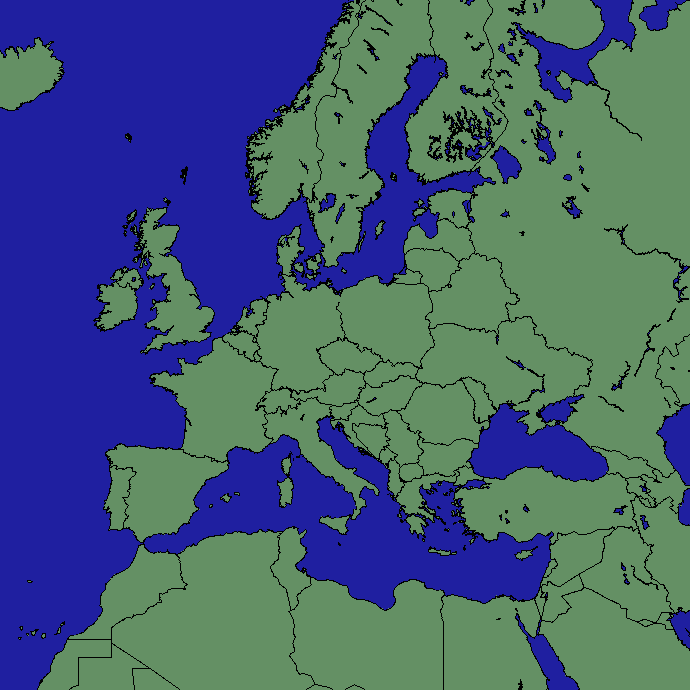
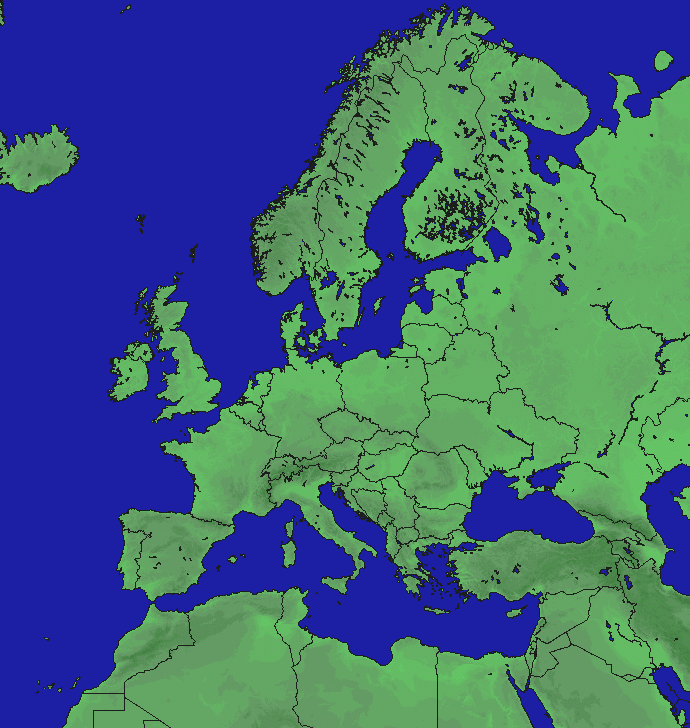
new map of europe

diff --git a/includes/templates.inc.php b/includes/templates.inc.php
@@ -36,7 +36,7 @@ $_BO['tpl_density_colors'][] = array(255, 190, 255, 15);
 
 //Europe
 $_BO['tpl_density']['europe']['name'] 	= 'Europe';
-$_BO['tpl_density']['europe']['coord'] 	= array(70, 52, 20, -22); //North, East, South, West (Degrees)
+$_BO['tpl_density']['europe']['coord'] 	= array(72, 52, 20, -22); //North, East, South, West (Degrees)
 $_BO['tpl_density']['europe']['length']	= 10; // minimum width (W<->E) AND height (N<->S) of the box (kilometers)
 $_BO['tpl_density']['europe']['bps'] 	= 2; // bytes per area 
 
@@ -100,11 +100,12 @@ $_BO['tpl_gmap']['1-10d']['only_loggedin'] = true;
 /**************************************/
 
 //Europe
+//MapTool URL: http://www.blitzortung.org/Webpages/index.php?lang=de&page=3&subpage_3=4&update=1&map_generator_north=71.3&map_generator_west=-22&map_generator_east=52&map_generator_south=24.3&map_generator_min_area=50&map_generator_shorelines=0.1p%2F30%2F30%2F30&map_generator_boundaries=a%2F0.1p%2F30%2F30%2F30&map_generator_rivers=-&map_generator_lakes=31%2F31%2F160&map_generator_dry_area=-&map_generator_wet_area=31%2F31%2F160&map_generator_color_map=-200+100+195+100+0+100+195+100+%0D%0A0+100+188+100+100+100+188+100+%0D%0A100+100+177+100+200+100+177+100+%0D%0A200+100+166+100+500+100+166+100+%0D%0A500+100+155+100+1000+100+155+100+%0D%0A1000+90+144+90+1500+90+144+90%0D%0A1500+80+140+80+2000+80+140+80%0D%0A2000+75+135+75+2500+75+135+75%0D%0A2500+70+130+70+3000+70+130+70%0D%0A3000+65+120+65+5000+65+120+65%0D%0A&map_generator_azimuth=315&map_generator_normalization=e0.01
 $_BO['tpl_imgmap']['europe']['name'] = 'Europe';
 $_BO['tpl_imgmap']['europe']['menu'] = true;
 $_BO['tpl_imgmap']['europe']['archive'] = true;
 $_BO['tpl_imgmap']['europe']['file'] = 'map_europe.png';
-$_BO['tpl_imgmap']['europe']['coord'] = array(68, 50, 23, -20); //North, East, South, West (Degrees)
+$_BO['tpl_imgmap']['europe']['coord'] = array(71.3, 52, 24.3, -22); //North, East, South, West (Degrees)
 $_BO['tpl_imgmap']['europe']['trange'] = 2; //hours!
 $_BO['tpl_imgmap']['europe']['upd_intv'] = 15; //minutes
 $_BO['tpl_imgmap']['europe']['textcolor'] = array(255,255,255);
@@ -163,7 +164,7 @@ $_BO['tpl_imgmap']['germany_lkr']['col'][] = array(255, 150, 0);
 $_BO['tpl_imgmap']['germany_lkr']['col'][] = array(255, 100, 0);
 $_BO['tpl_imgmap']['germany_lkr']['col'][] = array(255,   0, 0);
 $_BO['tpl_imgmap']['germany_lkr']['col'][] = array(225,   0, 0);
-$_BO['tpl_imgmap']['germany_lkr']['show_station'] = array(5, 155,155,255,true);
+$_BO['tpl_imgmap']['germany_lkr']['show_station'] = array(5, 155,80,155,true);
 $_BO['tpl_imgmap']['germany_lkr']['density'] = true;
 $_BO['tpl_imgmap']['germany_lkr']['density_blocksize'] = 8;
 $_BO['tpl_imgmap']['germany_lkr']['density_colors'] = $_BO['tpl_density_colors'];

diff --git a/includes/update.inc.php b/includes/update.inc.php
@@ -24,7 +24,7 @@
 function bo_check_for_update()
 {
 	
-	$updates = array('0.2.2' => 202, '0.3' => 300, '0.3.1' => 301);
+	$updates = array('0.2.2' => 202, '0.3' => 300, '0.3.1' => 301, '0.4.8' => 408);
 	$cur_version = bo_get_conf('version');
 
 	preg_match('/([0-9]+)(\.([0-9]+)(\.([0-9]+))?)?/', $cur_version, $r);
@@ -93,6 +93,32 @@ function bo_check_for_update()
 				
 				$ok = bo_db($sql, false);
 				echo '<li><em>'.$sql.'</em>: <b>'._BL($ok ? 'OK' : 'FAIL').'</b></li>';
+				break;
+			
+			case '0.4.8':
+			
+				switch ($_GET['bo_action2'])
+				{
+					default:
+						echo '<li>Should the densities be cleaned? Due to some major changes, the old data cannot be used any more. 
+							<a href="'.bo_insert_url(array('bo_action', 'bo_action2')).'&bo_action=do_update&bo_action2=clear_dens_yes">Yes, clear!</a> 
+							<a href="'.bo_insert_url(array('bo_action', 'bo_action2')).'&bo_action=do_update&bo_action2=clear_dens_no">No, do not clear!</a> 
+							</li></ul>';
+						return true;
+						break;
+					
+					case 'clear_dens_yes':
+						$sql = 'TRUNCATE TABLE `'.BO_DB_PREF.'densities`';
+						$ok = bo_db($sql, false);
+						echo '<li><em>'.$sql.'</em>: <b>'._BL($ok ? 'OK' : 'FAIL').'</b></li>';
+						break;
+						
+					case 'clear_dens_no':
+						$ok = true;
+						break;
+				
+				}
+				break;
 		}
 		
 		echo '</ul>';
@@ -117,7 +143,7 @@ function bo_check_for_update()
 		echo '<h4>'._BL('Update-Info: Setting version number to').' '.BO_VER.'</h4>';
 	}
 	
-		
+	return $ok;
 	
 }
 

diff --git a/includes/image.inc.php b/includes/image.inc.php
@@ -732,6 +732,7 @@ function bo_get_density_image()
 	$station_id = intval($_GET['id']);
 	$ratio = isset($_GET['ratio']) && $station_id;
 	
+	
 	@set_time_limit(30);
 	
 	global $_BO;
@@ -741,6 +742,8 @@ function bo_get_density_image()
 	if (!is_array($cfg) || !$cfg['density'])
 		exit('Missing image data!');
 
+	$min_block_size = max($cfg['density_blocksize'], intval($_GET['bo_blocksize']), 1);	
+		
 	//todo: needs adjustments
 	$last_update = strtotime('today +  4 hours');
 	$expire      = strtotime('today + 28 hours');
@@ -752,7 +755,7 @@ function bo_get_density_image()
 
 	//Caching
 	$caching = !(defined('BO_CACHE_DISABLE') && BO_CACHE_DISABLE === true) && BO_LOCALE == _BL();
-	$cache_file = BO_DIR.'cache/density_map_'._BL().'_'.sprintf('%d_station%d_%d_%04d%02d.png', $map_id, $station_id, $ratio ? 1 : 0, $year, $month);
+	$cache_file = BO_DIR.'cache/density_map_'._BL().'_'.sprintf('%d_station%d_%d_b%d_%04d%02d.png', $map_id, $station_id, $ratio ? 1 : 0, $min_block_size, $year, $month);
 	if ($caching && file_exists($cache_file) && filemtime($cache_file) >= $last_update)
 	{
 		header("Content-Type: image/png");
@@ -765,7 +768,6 @@ function bo_get_density_image()
 	$lonE = $cfg['coord'][1];
 	$latS = $cfg['coord'][2];
 	$lonW = $cfg['coord'][3];
-	$min_block_size = max($cfg['density_blocksize'], intval($_GET['bo_blocksize']), 1);
 	$colors = is_array($cfg['density_colors']) ? $cfg['density_colors'] : $_BO['tpl_density_colors'];
 
 	$tmpImage = imagecreatefrompng(BO_DIR.'images/'.$file);

diff --git a/includes/import.inc.php b/includes/import.inc.php
@@ -883,10 +883,16 @@ function bo_update_all($force)
 	echo "<h2>Getting lightning data from blitzortung.org</h2>\n";
 
 	$start_time = time();
-	$max_time = 50;
+	
+	$max_time = intval(ini_get('max_execution_time')) - 10;
+
+	if ($max_time < 20 || !defined('BO_DEBUG') || !BO_DEBUG) //allow infinite exec time in debug mode
+	{
+		$max_time = 50;
+	}
 	
 	@set_time_limit($max_time+10);
-
+	
 	if (!$force)
 		sleep(rand(0,30)); // to avoid to much connections from different stations to blitzortung.org at the same time
 

diff --git a/blitzortung.php b/blitzortung.php
@@ -23,7 +23,7 @@ if (!defined("BO_VER"))
 {
 
 	define("BO_DIR", dirname(__FILE__).'/');
-	define("BO_VER", '0.4.7');
+	define("BO_VER", '0.4.8');
 
 	define("BO_PERM_ADMIN", 		1);
 	define("BO_PERM_SETTINGS", 		2);
